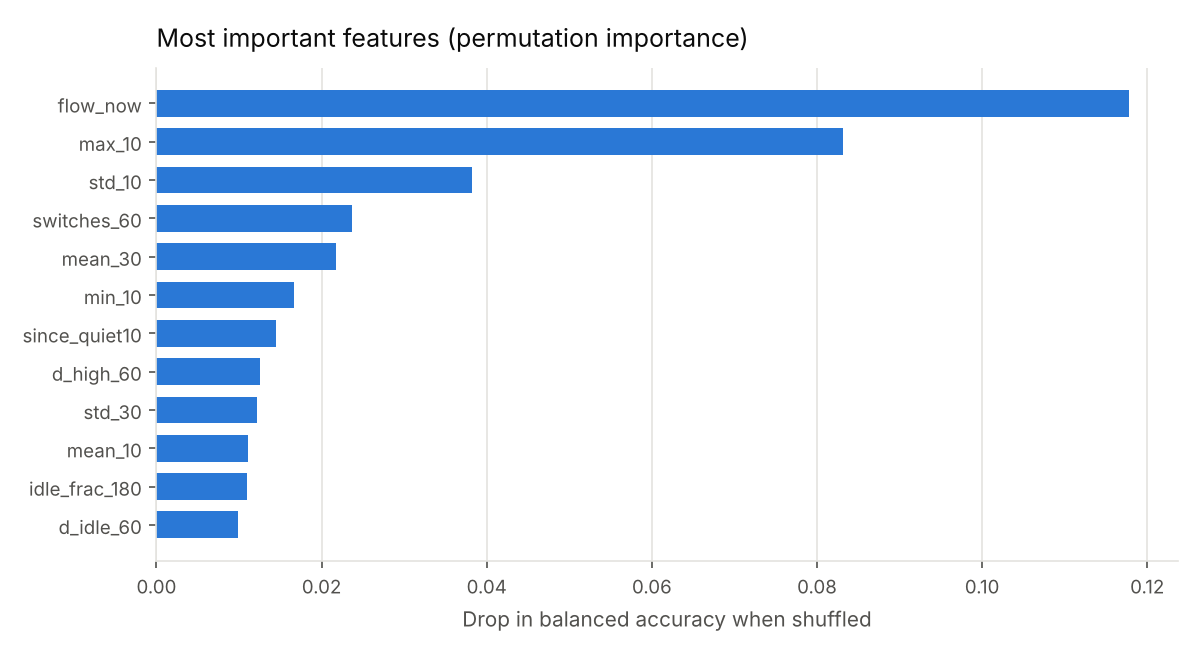
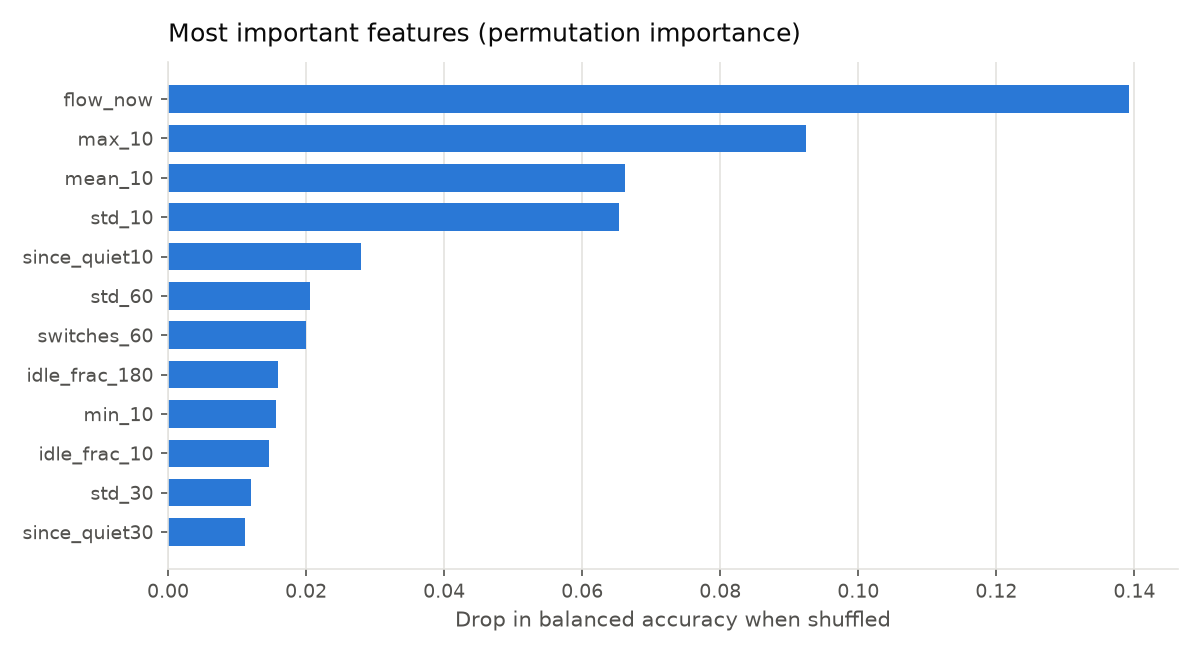
Retrain leak detector; add held-out seed evaluation and real-readings export
Results are on synthetic data (SIMDEUM households and loop-calibrated generator);
held-out: 24/24 micro-leaks, 16/16 bursts, 0.14 false alarms/day.

Changed region(s): [[0.0, 0.1223, 0.9867, 0.9786], [0.1233, 0.0306, 0.6783, 0.0917]]

diff --git a/edge-ai/model/evaluate_heldout_seeds.py b/edge-ai/model/evaluate_heldout_seeds.py
@@ -1,0 +1,29 @@
+"""Evaluate the saved model on held-out loop-calibrated datasets (dataset/out_seeds/seed*)
+generated with generate_dataset.py using seeds never used in training. SYNTHETIC data."""
+import json, sys
+from pathlib import Path
+import joblib, pandas as pd
+
+HERE = Path(__file__).resolve().parent
+sys.path.insert(0, str(HERE))
+import leakdetect as ld  # noqa: E402
+import train_leak_model as tlm  # noqa: E402
+
+saved = joblib.load(HERE / "results" / "leak_model.joblib")
+kind = "rf" if saved["model_type"] == "Random Forest" else "hgb"
+results, rows = [], []
+for d in sorted((HERE.parent / "dataset" / "out_seeds").glob("seed*")):
+    df, ev = ld.load_single_file(next(d.glob("*_1min.csv")), next(d.glob("*_events.csv")))
+    X = ld.make_features(df)[saved["features"]]
+    res = tlm.evaluate_house(kind, tlm.detect(kind, saved["model"], saved["alarms"], X), df.index, ev)
+    results.append(res)
+    s = ld.summarise([res])
+    rows.append({"seed": d.name, **{k: s[k] for k in ["micro_leak_caught", "burst_caught", "false_alarms_per_day"]}})
+    print(rows[-1])
+tot = ld.summarise(results)
+print("\nTOTAL", json.dumps(tot, default=str, indent=1))
+ev = pd.DataFrame([e for r in results for e in r["events"]])
+print(ev.groupby("type").agg(caught=("caught", "sum"), total=("caught", "size"), median_delay_min=("delay_min", "median")))
+out = HERE / "results" / "heldout_seeds"; out.mkdir(exist_ok=True)
+pd.DataFrame(rows).to_csv(out / "per_seed.csv", index=False)
+(out / "summary.json").write_text(json.dumps(tot, default=str, indent=2))

diff --git a/edge-ai/model/results/REPORT.md b/edge-ai/model/results/REPORT.md
@@ -3,36 +3,36 @@
 ## Detectors compared
 | detector | micro_leak_recall | burst_recall | false_alarms_per_day | micro_leak_delay_min | burst_delay_min | caught_total |
 |---|---|---|---|---|---|---|
-| Random Forest | 100% ± 0% | 92% ± 8% | 0.21 ± 0.05 | 10 | 18 | 120/120 leaks, 55/60 bursts |
-| Gradient boosting | 100% ± 0% | 93% ± 8% | 0.25 ± 0.08 | 11 | 20 | 120/120 leaks, 56/60 bursts |
+| Random Forest | 99% ± 2% | 92% ± 4% | 0.19 ± 0.03 | 9 | 17 | 119/120 leaks, 55/60 bursts |
+| Gradient boosting | 100% ± 0% | 93% ± 8% | 0.21 ± 0.10 | 9 | 20 | 120/120 leaks, 56/60 bursts |
 | Isolation Forest (no labels) | 92% ± 7% | 75% ± 10% | 0.16 ± 0.04 | 59 | 33 | 111/120 leaks, 45/60 bursts |
 | Current backend rules | 0% ± 0% | 0% ± 0% | 0.00 ± 0.00 | – | – | 0/120 leaks, 0/60 bursts |
 
 ## Ablation (Gradient boosting)
 | detector | micro_leak_recall | burst_recall | false_alarms_per_day | micro_leak_delay_min | burst_delay_min | caught_total |
 |---|---|---|---|---|---|---|
-| all features | 100% ± 0% | 93% ± 8% | 0.25 ± 0.08 | 11 | 20 | 120/120 leaks, 56/60 bursts |
-| without time of day | 100% ± 0% | 90% ± 9% | 0.23 ± 0.08 | 10 | 18 | 120/120 leaks, 54/60 bursts |
+| all features | 100% ± 0% | 93% ± 8% | 0.21 ± 0.10 | 9 | 20 | 120/120 leaks, 56/60 bursts |
+| without time of day | 100% ± 0% | 93% ± 8% | 0.23 ± 0.08 | 9 | 19 | 120/120 leaks, 56/60 bursts |
 | without time & flow level | 100% ± 0% | 83% ± 10% | 0.17 ± 0.06 | 12 | 20 | 120/120 leaks, 50/60 bursts |
-| without house baseline | 100% ± 0% | 93% ± 8% | 0.18 ± 0.09 | 8 | 18 | 120/120 leaks, 56/60 bursts |
+| without house baseline | 100% ± 0% | 93% ± 8% | 0.18 ± 0.10 | 8 | 17 | 120/120 leaks, 56/60 bursts |
 
 ## By anomaly shape
 ```
               caught  total  median_delay_min  recall
 type                                                 
-burst             56     60              19.5    0.93
-cistern_leak      39     39              21.0    1.00
-growing_leak      39     39               8.0    1.00
-steady_leak       42     42              10.0    1.00
+burst             56     60              20.5    0.93
+cistern_leak      39     39              20.0    1.00
+growing_leak      39     39               7.0    1.00
+steady_leak       42     42               9.0    1.00
 ```
 
 ## False alarms per day by routine
-{"day": 0.246, "night_shift": 0.248}
+{"day": 0.213, "night_shift": 0.2}
 
 ## False alarms per day by household type
-{"family": 0.324, "one_person": 0.2, "two_person": 0.214}
+{"family": 0.21, "one_person": 0.21, "two_person": 0.214}
 
 ## Final model on other data
-- **original single-household dataset**: micro-leaks 3/3, bursts 2/2, false alarms/day 0.00
+- **original single-household dataset**: micro-leaks 3/3, bursts 2/2, false alarms/day 0.05
 
-Final alarm settings (threshold, minutes): {"micro_leak": [0.7, 2], "burst": [0.9, 5]}
+Final alarm settings (threshold, minutes): {"micro_leak": [0.95, 3], "burst": [0.3, 15]}
